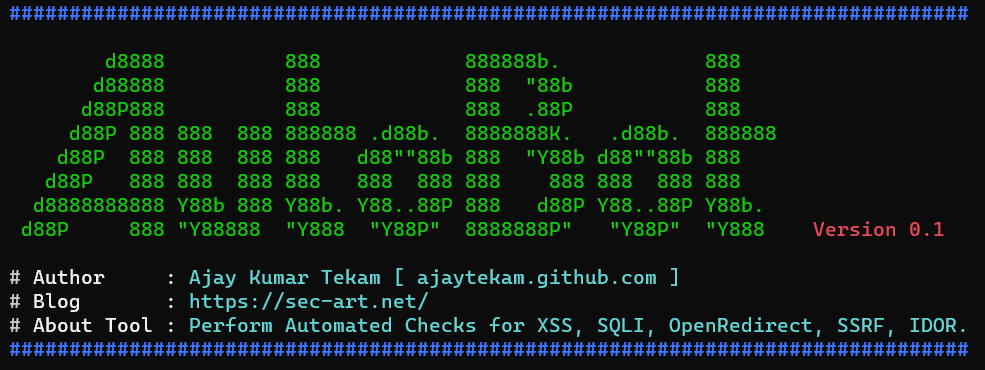
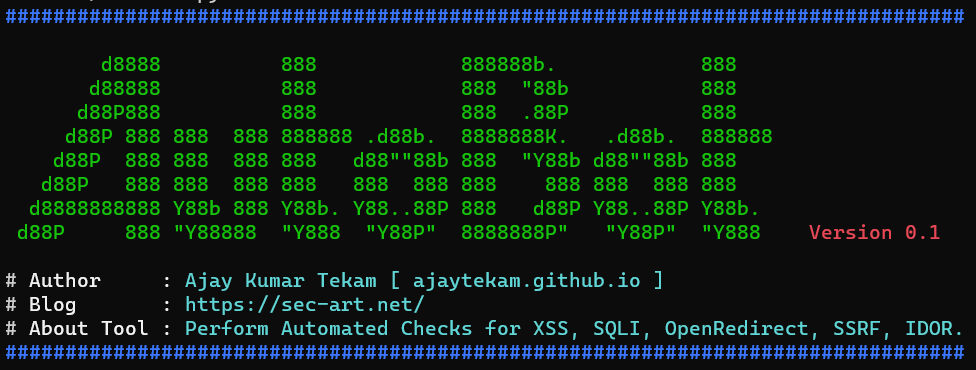
README.md updated

diff --git a/autobot.py b/autobot.py
@@ -208,7 +208,7 @@ def Banner():
    d88P   888 888  888 888   888  888 888    888 888  888 888    
   d8888888888 Y88b 888 Y88b. Y88..88P 888   d88P Y88..88P Y88b.  
  d88P     888 "Y88888  "Y888  "Y88P"  8888888P"   "Y88P"  "Y888    """+co.colors.RED+"Version 0.1\n"+co.END)
-    print("# "+co.BOLD+"Author     : "+co.colors.CYAN+"Ajay Kumar Tekam [ ajaytekam.github.com ]"+co.END)
+    print("# "+co.BOLD+"Author     : "+co.colors.CYAN+"Ajay Kumar Tekam [ ajaytekam.github.io ]"+co.END)
     print("# "+co.BOLD+"Blog       : "+co.colors.CYAN+"https://sec-art.net/"+co.END)
     print("# "+co.BOLD+"About Tool : "+co.colors.CYAN+"Perform Automated Checks for XSS, SQLI, OpenRedirect, SSRF, IDOR."+co.END)
     print(co.colors.BLUE+"################################################################################\n"+co.END)
